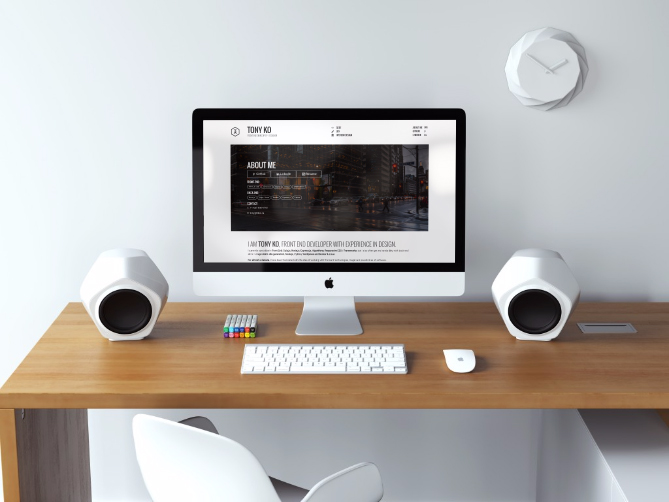
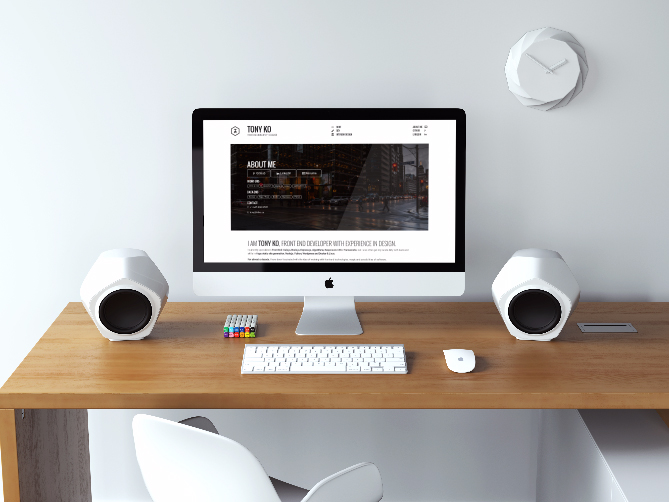
Update: Mockups with more clarity, category descriptions.

diff --git a/release/interior-design.html b/release/interior-design.html
@@ -42,17 +42,17 @@ https://htko.ca/about.html
   <meta name="description" content="Personal Portfolio of Tony Ko, Front End Developer.">
   <meta name="author" content="Tony Ko">
   <!-- seo -->
-  <meta name="description" content="Interior DesignEverything Interior Design">
+  <meta name="description" content="Interior DesignModern Architecture, Interior Design, Conceptualization">
   <meta property="og:type" content="profile">
   <meta property="og:title" content="Interior Design">
   <meta property="og:url" content="//htko.ca/interior-design.html">
   <meta property="og:site_name" content="Tony Ko">
-  <meta property="og:description" content="Interior DesignEverything Interior Design">
+  <meta property="og:description" content="Interior DesignModern Architecture, Interior Design, Conceptualization">
   <meta property="og:image" content="//htko.ca/interior-design/ocad/casa-das-canoas-scale-model/index/East-Overview.jpg">
-  <meta property="og:updated_time" content="2017-02-26T04:51:09.000Z">
+  <meta property="og:updated_time" content="2017-02-27T22:54:26.000Z">
   <meta name="twitter:card" content="summary">
   <meta name="twitter:title" content="Interior Design">
-  <meta name="twitter:description" content="Interior DesignEverything Interior Design">
+  <meta name="twitter:description" content="Interior DesignModern Architecture, Interior Design, Conceptualization">
   <meta name="twitter:image" content="//htko.ca/interior-design/ocad/casa-das-canoas-scale-model/index/East-Overview.jpg">
   <meta name="twitter:creator" content="@325691563">
   <link rel="publisher" href="115030973515103450000">
@@ -115,8 +115,8 @@ https://htko.ca/about.html
             <div class="h-content b-column b-is-6-mobile b-is-8-tablet">
               <h1 id="Interior-Design">
                 <a href="#Interior-Design" class="headerlink" title="Interior Design"></a>Interior Design</h1>
-              <h5 id="Everything-Interior-Design">
-                <a href="#Everything-Interior-Design" class="headerlink" title="Everything Interior Design"></a>Everything Interior Design</h5>
+              <h5 id="Modern-Architecture-Interior-Design-Conceptualization">
+                <a href="#Modern-Architecture-Interior-Design-Conceptualization" class="headerlink" title="Modern Architecture, Interior Design, Conceptualization"></a>Modern Architecture, Interior Design, Conceptualization</h5>
             </div>
             <div class="b-column b-is-3-mobile b-is-2-tablet"></div>
           </div>

diff --git a/release/code.html b/release/code.html
@@ -42,17 +42,17 @@ https://htko.ca/about.html
   <meta name="description" content="Personal Portfolio of Tony Ko, Front End Developer.">
   <meta name="author" content="Tony Ko">
   <!-- seo -->
-  <meta name="description" content="Code PortfolioEverything Code">
+  <meta name="description" content="Code PortfolioResponsive, Interactive and focused on User Experience">
   <meta property="og:type" content="profile">
   <meta property="og:title" content="Code">
   <meta property="og:url" content="//htko.ca/code.html">
   <meta property="og:site_name" content="Tony Ko">
-  <meta property="og:description" content="Code PortfolioEverything Code">
+  <meta property="og:description" content="Code PortfolioResponsive, Interactive and focused on User Experience">
   <meta property="og:image" content="//htko.ca/gfx/personal/htko-identity/index/mockup-cards.jpg">
-  <meta property="og:updated_time" content="2017-02-26T04:51:09.000Z">
+  <meta property="og:updated_time" content="2017-02-27T22:57:00.000Z">
   <meta name="twitter:card" content="summary">
   <meta name="twitter:title" content="Code">
-  <meta name="twitter:description" content="Code PortfolioEverything Code">
+  <meta name="twitter:description" content="Code PortfolioResponsive, Interactive and focused on User Experience">
   <meta name="twitter:image" content="//htko.ca/gfx/personal/htko-identity/index/mockup-cards.jpg">
   <meta name="twitter:creator" content="@325691563">
   <link rel="publisher" href="115030973515103450000">
@@ -115,8 +115,8 @@ https://htko.ca/about.html
             <div class="h-content b-column b-is-6-mobile b-is-8-tablet">
               <h1 id="Code-Portfolio">
                 <a href="#Code-Portfolio" class="headerlink" title="Code Portfolio"></a>Code Portfolio</h1>
-              <h5 id="Everything-Code">
-                <a href="#Everything-Code" class="headerlink" title="Everything Code"></a>Everything Code</h5>
+              <h5 id="Responsive-Interactive-and-focused-on-User-Experience">
+                <a href="#Responsive-Interactive-and-focused-on-User-Experience" class="headerlink" title="Responsive, Interactive and focused on User Experience"></a>Responsive, Interactive and focused on User Experience</h5>
             </div>
             <div class="b-column b-is-3-mobile b-is-2-tablet"></div>
           </div>

diff --git a/release/gfx.html b/release/gfx.html
@@ -42,17 +42,17 @@ https://htko.ca/about.html
   <meta name="description" content="Personal Portfolio of Tony Ko, Front End Developer.">
   <meta name="author" content="Tony Ko">
   <!-- seo -->
-  <meta name="description" content="Graphics DesignEverything Graphics">
+  <meta name="description" content="Graphics DesignClean and Minimal Design">
   <meta property="og:type" content="profile">
   <meta property="og:title" content="GFX">
   <meta property="og:url" content="//htko.ca/gfx.html">
   <meta property="og:site_name" content="Tony Ko">
-  <meta property="og:description" content="Graphics DesignEverything Graphics">
+  <meta property="og:description" content="Graphics DesignClean and Minimal Design">
   <meta property="og:image" content="//htko.ca/gfx/personal/early-graphical-design/index/2.jpg">
-  <meta property="og:updated_time" content="2017-02-26T04:51:09.000Z">
+  <meta property="og:updated_time" content="2017-02-27T22:54:44.000Z">
   <meta name="twitter:card" content="summary">
   <meta name="twitter:title" content="GFX">
-  <meta name="twitter:description" content="Graphics DesignEverything Graphics">
+  <meta name="twitter:description" content="Graphics DesignClean and Minimal Design">
   <meta name="twitter:image" content="//htko.ca/gfx/personal/early-graphical-design/index/2.jpg">
   <meta name="twitter:creator" content="@325691563">
   <link rel="publisher" href="115030973515103450000">
@@ -115,8 +115,8 @@ https://htko.ca/about.html
             <div class="h-content b-column b-is-6-mobile b-is-8-tablet">
               <h1 id="Graphics-Design">
                 <a href="#Graphics-Design" class="headerlink" title="Graphics Design"></a>Graphics Design</h1>
-              <h5 id="Everything-Graphics">
-                <a href="#Everything-Graphics" class="headerlink" title="Everything Graphics"></a>Everything Graphics</h5>
+              <h5 id="Clean-and-Minimal-Design">
+                <a href="#Clean-and-Minimal-Design" class="headerlink" title="Clean and Minimal Design"></a>Clean and Minimal Design</h5>
             </div>
             <div class="b-column b-is-3-mobile b-is-2-tablet"></div>
           </div>

diff --git a/sources/source/interior-design.md b/sources/source/interior-design.md
@@ -6,4 +6,4 @@ cover: interior-design/ocad/casa-das-canoas-scale-model/index/East-Overview.jpg
 ---
 # Interior Design
 
-##### Everything Interior Design
+##### Modern Architecture, Interior Design, Conceptualization

diff --git a/sources/source/code.md b/sources/source/code.md
@@ -6,4 +6,4 @@ cover: gfx/personal/htko-identity/index/mockup-cards.jpg
 ---
 # Code Portfolio
 
-##### Everything Code
+##### Responsive, Interactive and focused on User Experience

diff --git a/sources/source/gfx.md b/sources/source/gfx.md
@@ -6,4 +6,4 @@ cover: gfx/personal/early-graphical-design/index/2.jpg
 ---
 # Graphics Design
 
-##### Everything Graphics
+##### Clean and Minimal Design
